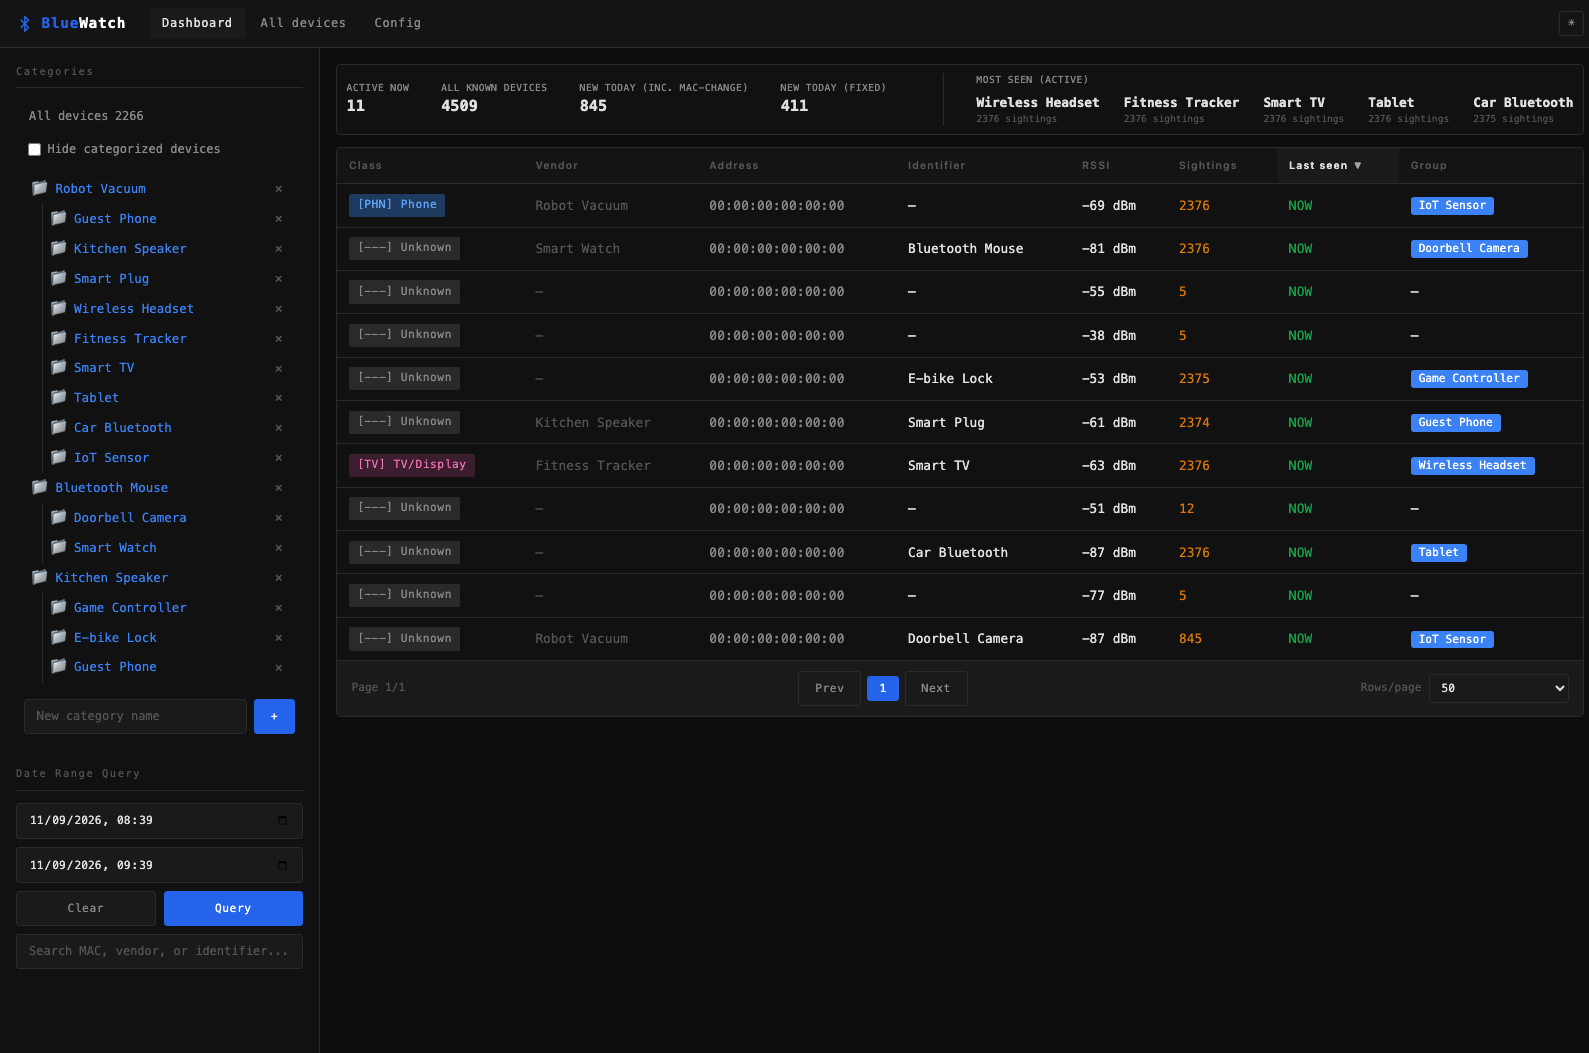
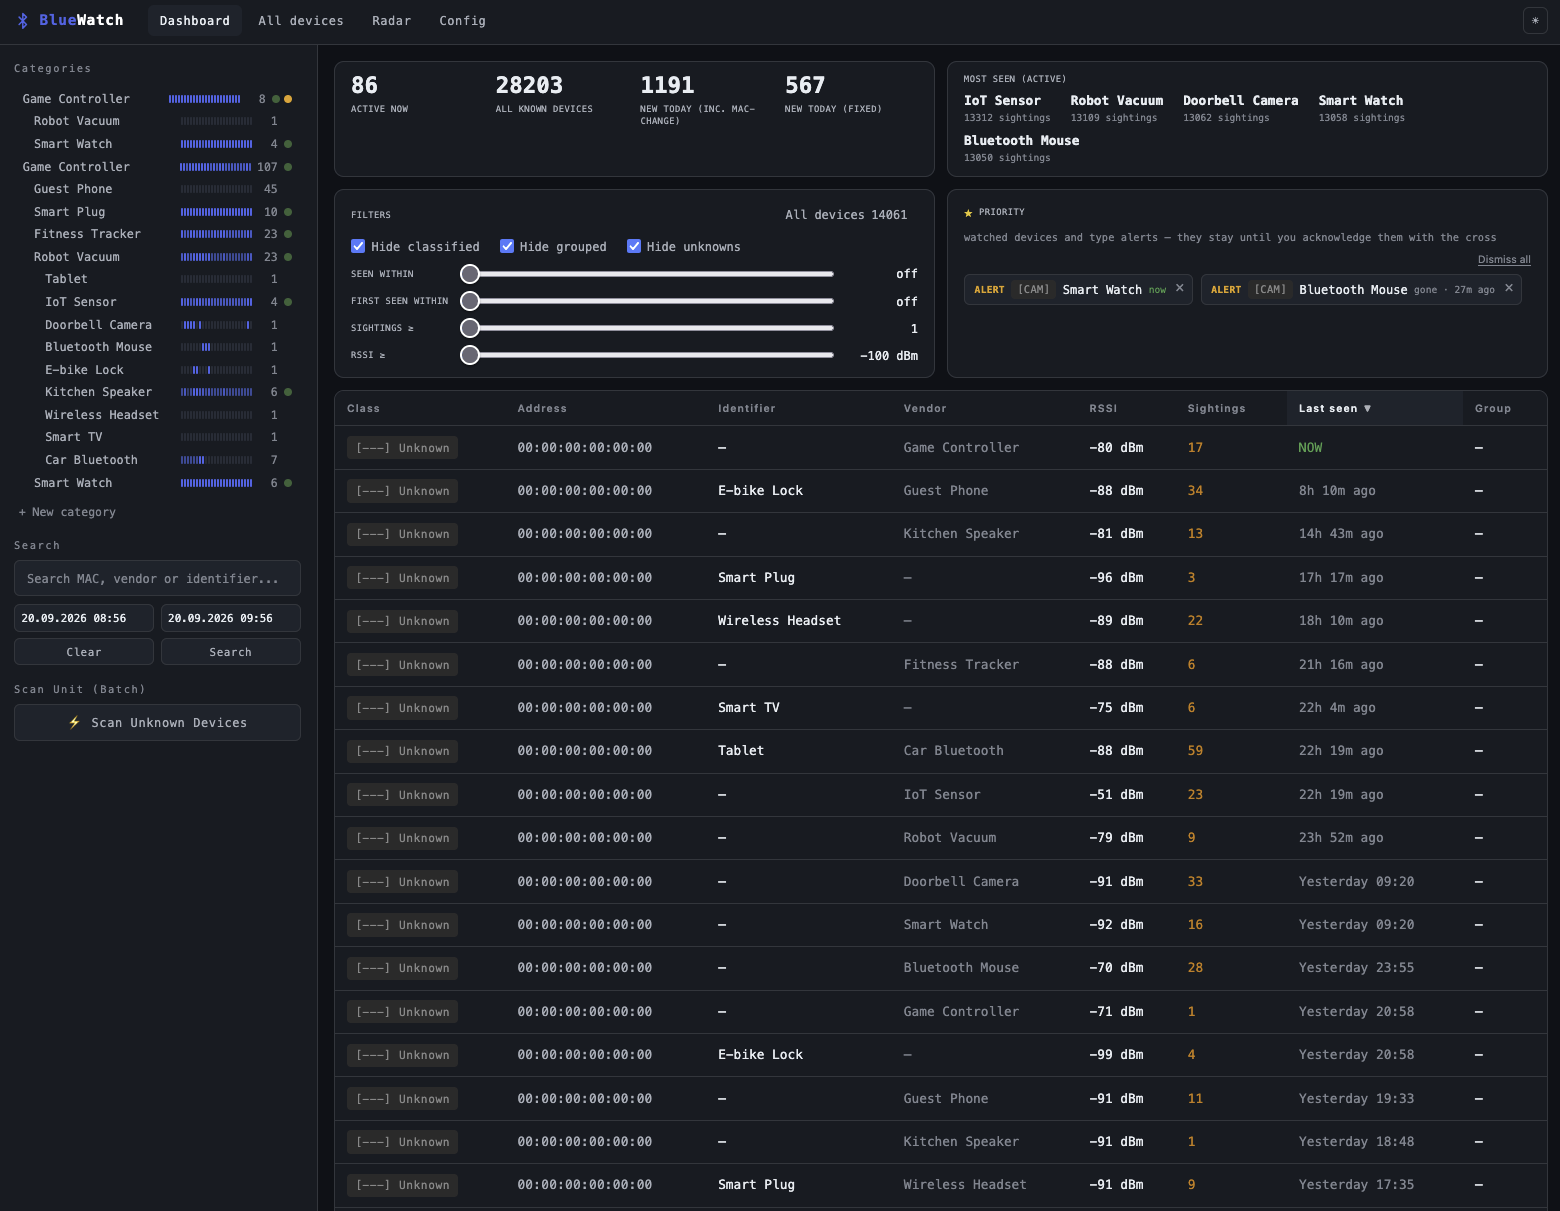
README: new screenshots (dashboard, all devices, radar), taken in demo mode

diff --git a/README.md b/README.md
@@ -48,7 +48,13 @@ not in the original. See `SPEC.md` for the original design notes and
 ## Screenshots
 
 ![Dashboard](screenshots/dashboard.png)
-*Live dashboard, devices seen in the last minute, with category filtering, search, and at-a-glance stats*
+*Live dashboard: devices seen right now, category sidebar with activity strips, priority alerts, filters and search*
+
+![All devices](screenshots/all-devices.png)
+*All devices: hourly statistics graphs, device types seen, priority alerts and the full filterable device list*
+
+![Radar](screenshots/radar.png)
+*Signal radar: distance from the centre is signal strength, with a live log of arrivals and departures*
 
 ![Settings](screenshots/settings.png)
 *Tabbed configuration page, Alerts, Operations, Groups, Security, WiGLE, and Export*
